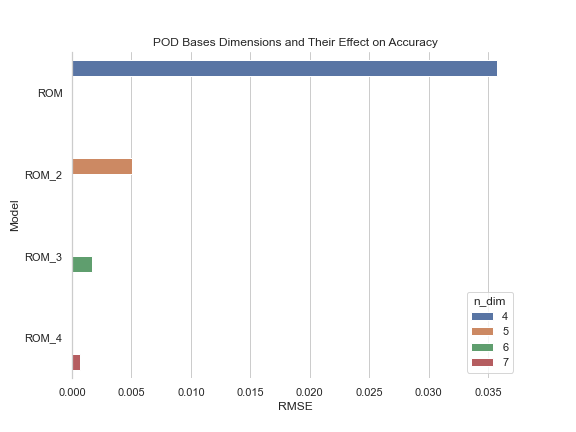
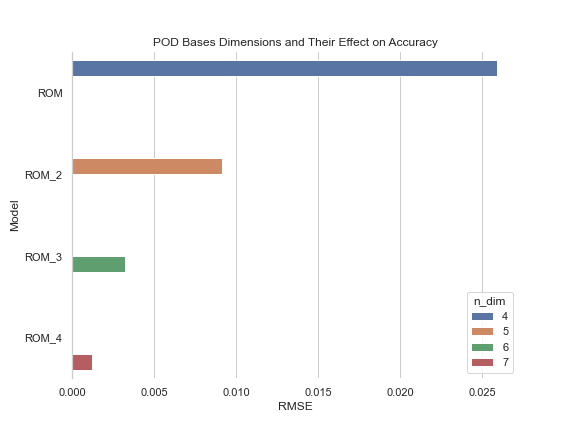
Optimized code to generate csvs

diff --git a/1D-Heat_equation/python/exploration.py b/1D-Heat_equation/python/exploration.py
@@ -40,11 +40,21 @@ for j in range(len(mu_new)):
 # %% Comparing different mu values
 # gettting a neat table comparing everything
 m_type = ['FOM', 'ROM', 'ROM_2', 'ROM_3', 'ROM_4']
-m_error = [0, np.sqrt(mean_squared_error(fom, rom)), np.sqrt(mean_squared_error(fom_new[0], rom_new[0])), np.sqrt(mean_squared_error(fom_new[1], rom_new[1])), np.sqrt(mean_squared_error(fom_new[2], rom_new[2]))]
+m_error = [0, np.sqrt(mean_squared_error(fom, rom))] 
+#lambda function to get all of the respective RMSE values
+m_error.extend(map(lambda x, y: np.sqrt(mean_squared_error(x, y)), fom_new, rom_new))
+
+
 #mu values 
 m_mu = [mu, mu, mu_new[0], mu_new[1], mu_new[2]]
+
+#getting the time taken to run each model
 m_cost = [t_fom, t_rom, t_rom_new[0], t_rom_new[1], t_rom_new[2]]
-t_saved = [t_fom - t_fom, t_fom - t_rom, t_fom_new[0] - t_rom_new[0], t_fom_new[1] - t_rom_new[1], t_fom_new[2] - t_rom_new[2]]
+
+#time saved
+t_saved = [t_fom - t_fom, t_fom - t_rom]
+#lambda function to get the rest
+t_saved.extend(map(lambda x, y: x - y, t_fom_new, t_rom_new))
 
 # creating the comparison table and then exporting to csv
 comp_table = pd.DataFrame({'model': m_type, 'mu': m_mu, 'RMSE': m_error, 'time': m_cost, 'time_saved': t_saved})
@@ -80,14 +90,20 @@ for l in range(len(phi_new)):
 
 # %% Comparing different POD bases with a table
 m_type_p = ['FOM', 'ROM', 'ROM_2', 'ROM_3', 'ROM_4']
+
+
 # this gets the number of dimensions from each of the models in the list phi_new
-n_dim = [128, (phi_new[0].shape)[1], (phi_new[1].shape)[1], (phi_new[2].shape)[1], (phi_new[3].shape)[1]]
+n_dim = [128]
+# lambda function to get all of the dimensions through each 
+n_dim.extend(map(lambda x: x.shape[1], phi_new))
 
 #this of course gets the RMSE of each model 
-p_error = [0, np.sqrt(mean_squared_error(fom_npod[0], rom_npod[0])), np.sqrt(mean_squared_error(fom_npod[1], rom_npod[1])), np.sqrt(mean_squared_error(fom_npod[2], rom_npod[2])), np.sqrt(mean_squared_error(fom_npod[3], rom_npod[3]))]
+p_error = [0]
+p_error.extend(map(lambda x, y: np.sqrt(mean_squared_error(x, y)), fom_npod, rom_npod))
 
 # getting the time taken
-basis_time = [t_fom_npod[0], t_rom_npod[0], t_rom_npod[1], t_rom_npod[2], t_rom_npod[3]]
+basis_time = [t_fom_npod[0]]
+basis_time.extend(t_rom_npod)
 
 # creating the table, not creating the time elapsed this time
 pod_table = pd.DataFrame({'model': m_type_p, 'n_dim': n_dim, 'RMSE': p_error, 'time': basis_time})
@@ -107,5 +123,3 @@ plt.ylabel("Model")
 sns.despine(bottom=True)
 
 bar_plot.get_figure().savefig('images/pod_bar.png')
-#%% animated plot of new POD bases
-
